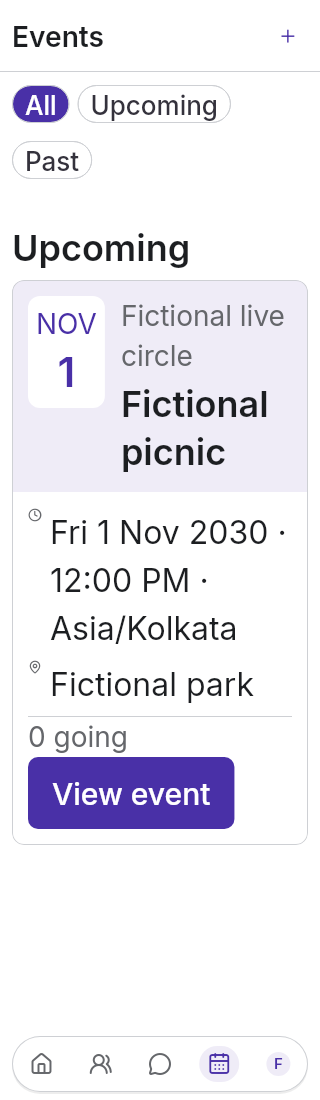
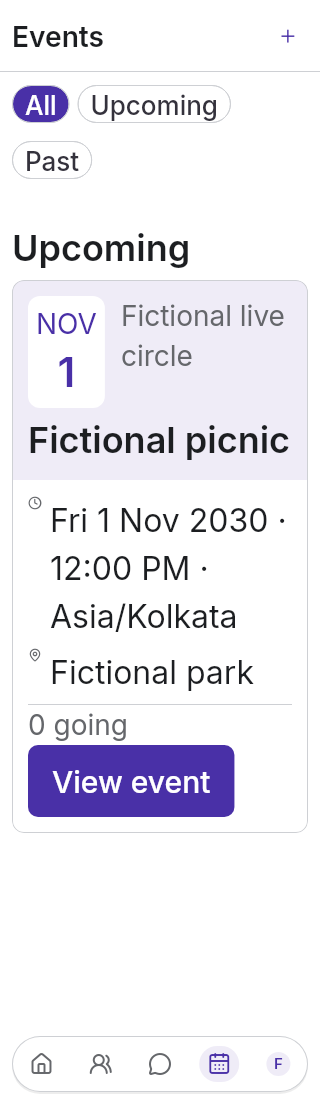
fix: preserve full event title width at accessible text sizes [skip ci]

diff --git a/mobile/lib/features/events/presentation/live_events.dart b/mobile/lib/features/events/presentation/live_events.dart
@@ -638,10 +638,9 @@ class LiveEventCard extends ConsumerWidget {
                 color: colors.primaryContainer,
                 child: Padding(
                   padding: const EdgeInsets.all(Space.md),
-                  child: Row(
-                    crossAxisAlignment: CrossAxisAlignment.start,
-                    children: [
-                      Container(
+                  child: Builder(
+                    builder: (context) {
+                      final badge = Container(
                         padding: const EdgeInsets.all(Space.sm),
                         decoration: BoxDecoration(
                           color: colors.surface,
@@ -672,27 +671,53 @@ class LiveEventCard extends ConsumerWidget {
                             ),
                           ],
                         ),
-                      ),
-                      const SizedBox(width: Space.md),
-                      Expanded(
-                        child: Column(
-                          crossAxisAlignment: CrossAxisAlignment.start,
+                      );
+                      final group = Text(
+                        groupName,
+                        style: CircleTextStyles.homeShortcut(caption),
+                      );
+                      final title = Text(
+                        item['title'] as String,
+                        style: CircleTextStyles.sectionTitle(colors.onSurface),
+                      );
+                      if (CircleLayout.stackDetails(
+                        context,
+                        MediaQuery.sizeOf(context).width,
+                      )) {
+                        return Column(
+                          crossAxisAlignment: CrossAxisAlignment.stretch,
                           children: [
-                            Text(
-                              groupName,
-                              style: CircleTextStyles.homeShortcut(caption),
+                            Row(
+                              crossAxisAlignment: CrossAxisAlignment.start,
+                              children: [
+                                badge,
+                                const SizedBox(width: Space.md),
+                                Expanded(child: group),
+                              ],
                             ),
-                            const SizedBox(height: Space.xs),
-                            Text(
-                              item['title'] as String,
-                              style: CircleTextStyles.sectionTitle(
-                                colors.onSurface,
-                              ),
-                            ),
+                            const SizedBox(height: Space.sm),
+                            title,
                           ],
-                        ),
-                      ),
-                    ],
+                        );
+                      }
+                      return Row(
+                        crossAxisAlignment: CrossAxisAlignment.start,
+                        children: [
+                          badge,
+                          const SizedBox(width: Space.md),
+                          Expanded(
+                            child: Column(
+                              crossAxisAlignment: CrossAxisAlignment.start,
+                              children: [
+                                group,
+                                const SizedBox(height: Space.xs),
+                                title,
+                              ],
+                            ),
+                          ),
+                        ],
+                      );
+                    },
                   ),
                 ),
               ),

diff --git a/PROJECT_STATE.md b/PROJECT_STATE.md
@@ -1,5 +1,5 @@
 # CIRCLE project state
-- Event design7Nov: third selected form/card; separate date/time, When/Where, shared lavender invitation on Events/all Memory surfaces. Migration025 publication/backfill preserves author/time and attendance on post deletion; batched counts/private deferred covers. Backend242tests/4570assertions/PHPStan clean;55mobile regression then11final creation/layout checks pass. Analyzer clean; Windows full verification pending. Backend deployment/new client needed; live/native unverified.
+- Event design7Nov: third selected form/card; separate date/time, When/Where, shared lavender invitation on Events/all Memory surfaces. Migration025 publication/backfill preserves author/time and attendance on post deletion; batched counts/private deferred covers. Backend242tests/4570assertions/PHPStan clean;55mobile regression then11final creation/layout checks pass. Analyzer clean. Initial Windows42342449453 found a narrow200% title-width regression; stacked title fixes it,22event/accessibility checks pass. Replacement full verification pending. Backend deployment/new client needed; live/native unverified.
 - Poll card7Nov: selected third flat ballot design, requested instruction removed; shared across Poll detail/list and all Memory cards. Atomic publication/backfill migration024, batched private projections, immediate create/vote refresh and scoped vote state. Backend240tests/4497assertions and PHPStan pass; final Poll9tests/305assertions; mobile26focused+12freshness/layout checks pass. Windows42332187248 passed812/1skip, font/format/analyzer clean;22baselines pixel-identical, none replaced. Report:docs/poll-card-selected-2026-11-07.md. Backend deployment+new client required; no live/native validation.
 - Selected Circle identity7Nov: role badge beside name, quieter Members/InCircles links without chevrons and adaptive rectangular action tiles with lavender Chat. Existing routes/capabilities/photo guards retained. 34focused checks pass; format253files/analyzer clean. Windows42328357413 passed806/1skip;22baselines reviewed(1changed/21identical),1 imported with checksum verification. Visual QA passed; no runtime release/native device validation. Report:docs/circle-identity-selected-2026-11-07.md. Circle recovery7Nov: preserved a232a08 header alignment; adaptive bold/scaled14px shortcut grid, one guarded admin photo menu, single HTTP/decode cover retry, no workspace/timeline auto-retry loops and safe Memories failure wording. Focused40then final25checks pass, format/analyzer clean;5 renders reviewed. Restored Profile Account settings entry removed upstream;36 additional account/header checks pass. Replaced initial CI42282465630 to include this correction; Windows42283041729 full refresh passed806/1skip;22 baselines reviewed(6changed/16unchanged),6 imported with checksum verification. No backend/SQL changes; live host/deployment unavailable under policy. New client build needed; installed build unidentified. Report:docs/circle-detail-recovery-2026-11-07.md. Header alignment: root and detail header dividers, flat header actions, Circle Invitations and Memory titles, and a capability-gated Notifications settings action. Header CI verified with Circle recovery below; native device comparison pending. Approved icon-only dock6Nov:56px floating capsule,12px side inset, single safe-area bottom spacing, centered24px icons/actual avatar, lavender active highlight/profile ring. No visible tab labels; tooltips and accessible names/selection/taps preserved. Includes prior approved Home header/Reddit Memory source.63 regression checks(excluding9 goldens) plus15 focused pass; analyzer/format clean;4 renders reviewed. Windows refresh42253358395 passed797/1skip, format/font/analyzer clean;22 baselines reviewed(16 changed/6 unchanged),16 imported with checksum verification. Source only; APK42/iOS1058.1 unchanged. Report:docs/icon-navigation-selected-2026-11-06.md.
 - Latest Reddit-reference6Nov supersedes prior square/full-bleed Memory styling:16px inset/rounded media,1px dividers,16px body/18px short-post opening hierarchy, outlined real reaction/comment/count pills(including zero)/trailing save. Shared Home/Circle/Profile/Saved/detail; existing privacy/queries retained.35 focused tests/analyzer clean,8 captures reviewed; Windows refresh42235321730 passed787/1skip, format/font/analyzer clean;22 baselines reviewed(12changed/10unchanged),12 imported with checksum verification. Source only; installed APK42/iOS1058.1 unchanged. Report:docs/reddit-memory-reference-2026-11-06.md.

diff --git a/docs/event-selected-2026-11-07.md b/docs/event-selected-2026-11-07.md
@@ -9,3 +9,5 @@ Migration025 creates one publication per existing event and preserves original g
 Verification: backend242tests/4570assertions and PHPStan512MB pass. New publication suite2tests/49assertions covers idempotency, saved/detail cards, outsider rejection, cancellation/title update, deletion retaining attendance, backfill time/deduplication and constant query growth. Mobile55regression checks pass; final11checks cover six listing entries, actual date/time pickers, creating once and immediate Home visibility, and phone/tablet/dark200% layouts. Format/analyzer checks and Windows full verification recorded below when complete. Initial narrow test tried locating an unbuilt lazy-list button; scrolling until visible fixed that test locator. Fictional captures are in design-previews/event-selected-2026-11-07/.
 
 Deployment: existing deployment script must apply025_event_memory_cards.sql and updated PHP (024 must also be applied for poll cards). A new client build is required. No hosting deployment, APK/TestFlight release or native-device verification is claimed in this source batch.
+
+Windows42342449453 caught one narrow200% title-width regression (822passed/1failed/1skipped). The date badge now sits above the full-width title at narrow/large text sizes;22focused event/accessibility checks pass and analyzer is clean. Replacement Windows verification is pending. No failed baseline was accepted.

diff --git a/design-qa.md b/design-qa.md
@@ -13,3 +13,5 @@ History: restored a readable18px card title and thin outer border after first re
 No remaining actionable P0/P1/P2 visual findings. Follow-up P3: native iOS font rasterization and final physical-device comparison. No live-server/device acceptance inferred from fictional Flutter renders.
 
 final result: passed
+
+Windows42342449453 caught one narrow200% title-width regression (822passed/1failed/1skipped). The date badge now sits above the full-width title at narrow/large text sizes;22focused event/accessibility checks pass and analyzer is clean. Replacement Windows verification is pending. No failed baseline was accepted.
